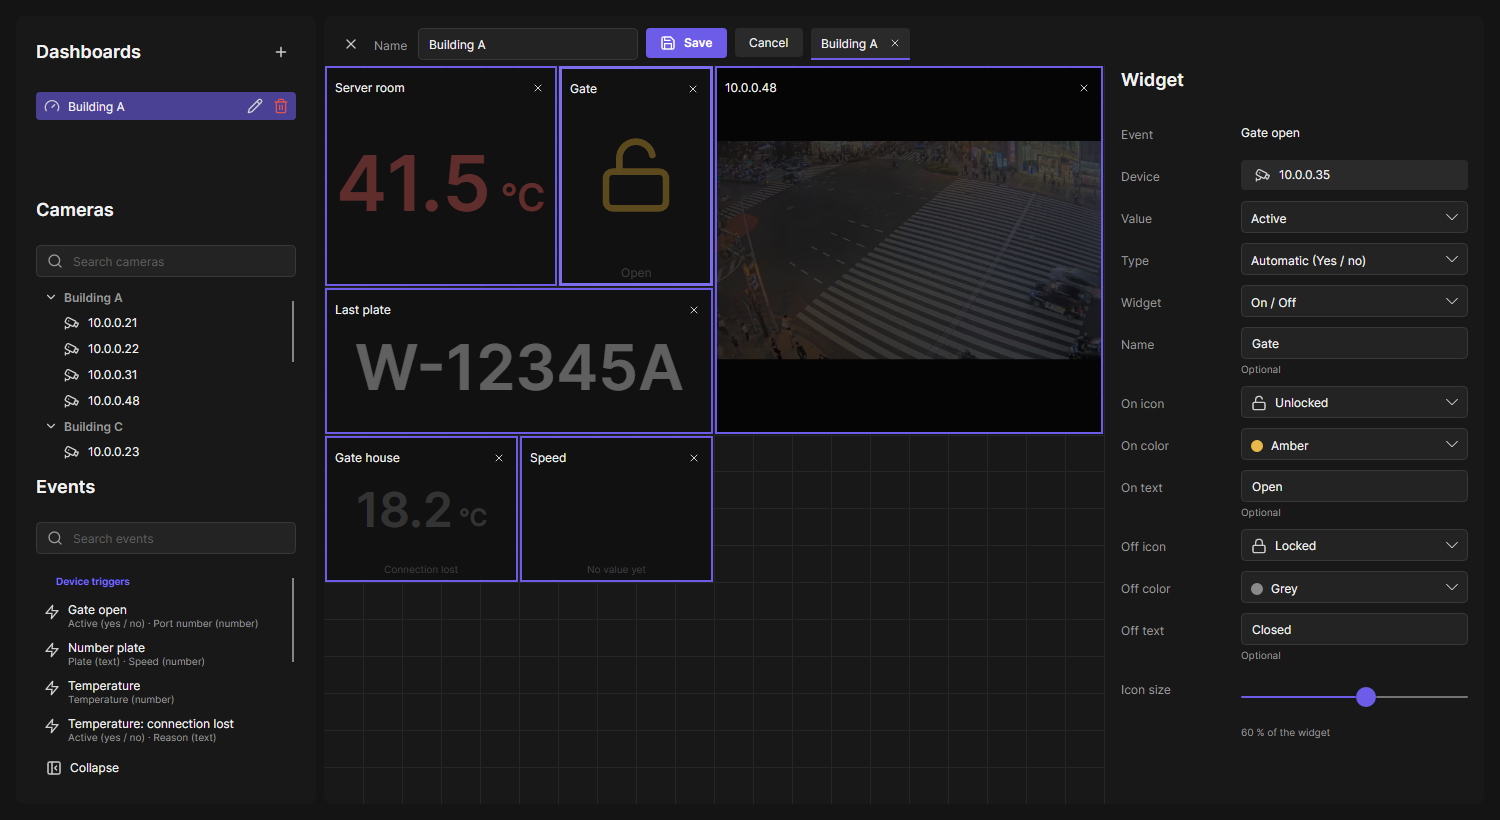
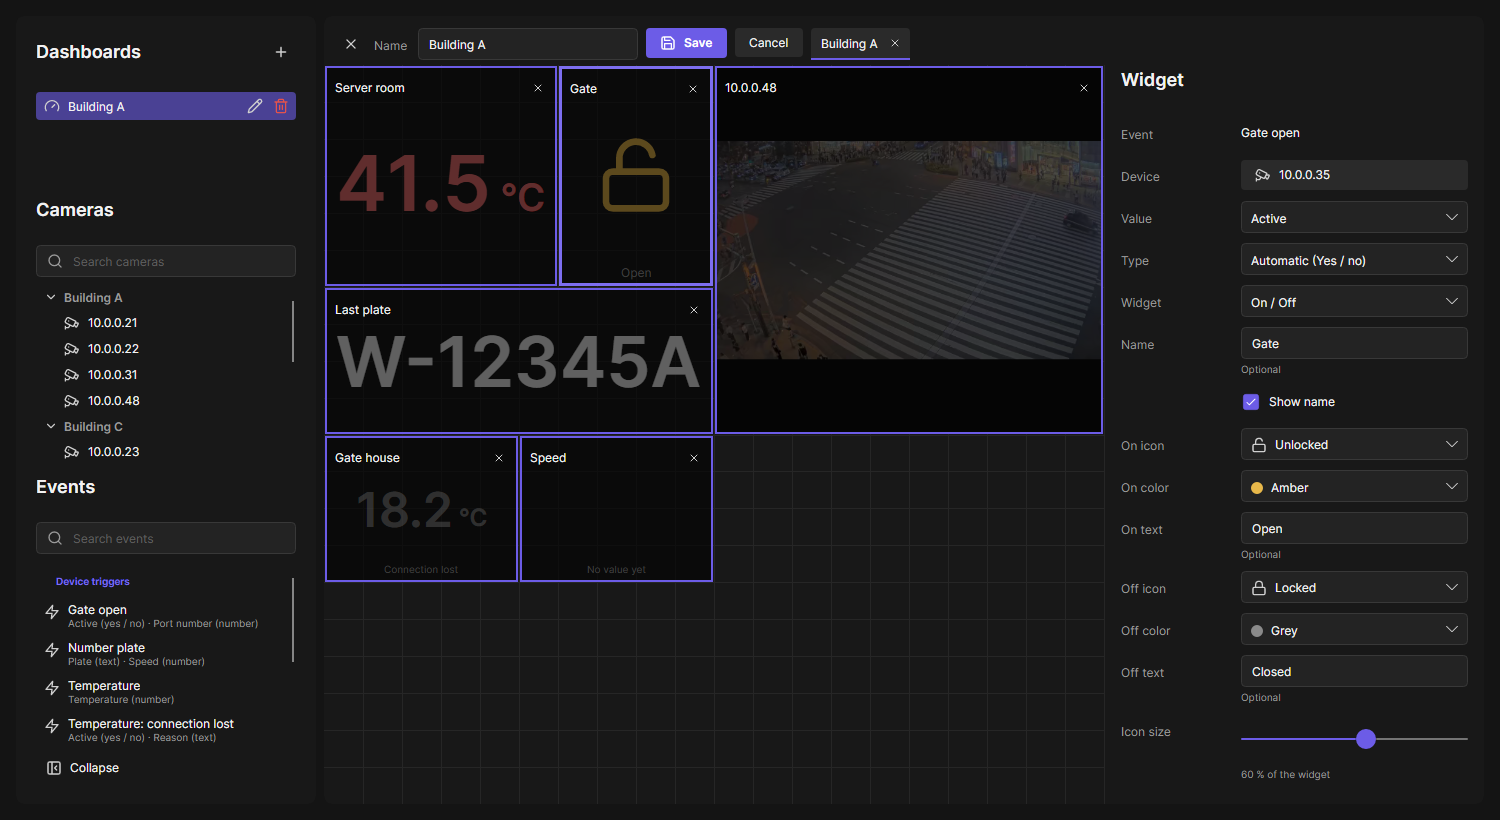
feat(dashboards): Show name per widget, value widgets transparent on the card
A value widget can hide its name so the value takes the whole widget (on by default). Value widgets have no background;
the shared tile grid gives a tile's frame an optional theme class (ITileGridItem.FrameClass), video keeps its dark
background.

diff --git a/tests/Oadm.Plugins.Dashboards.Tests/DashboardsPageTests.cs b/tests/Oadm.Plugins.Dashboards.Tests/DashboardsPageTests.cs
@@ -138,6 +138,9 @@ public sealed class DashboardsPageTests
             await editor.ChooseDeviceCommand.ExecuteAsync(null);
             Assert.Equal(io.Id, widget.Widget.DeviceId);
             Assert.Equal("Temperature · 10.0.0.120", widget.Widget.Name); // the default name follows the device
+            editor.ShowName = false;
+            Assert.False(widget.Widget.ShowName);
+            editor.ShowName = true;
             editor.Unit = "°C";
             editor.AddThresholdCommand.Execute(null);
             editor.Thresholds[0].ValueText = "30";
@@ -319,7 +322,7 @@ public sealed class DashboardsPageTests
                 [
                     new Widget { Id = "t", Kind = WidgetKind.Number, TypeId = Types.Temperature, Field = "temperature", DeviceId = io.Id, Name = "Server room", Unit = "°C", X = 0, Y = 0, Width = 6, Height = 6, Thresholds = [new(30, "Orange"), new(40, "Red")] },
                     new Widget { Id = "g", Kind = WidgetKind.OnOff, TypeId = Types.Gate, Field = DashboardsPluginInfo.ActiveField, DeviceId = gate.Id, Name = "Gate", OnText = "Open", OffText = "Closed", OnIcon = "lockOpen", OnColor = "Amber", OffIcon = "lock", X = 6, Y = 0, Width = 4, Height = 6 },
-                    new Widget { Id = "p", Kind = WidgetKind.Text, TypeId = Types.Plate, Field = "plate", DeviceId = io.Id, Name = "Last plate", X = 0, Y = 6, Width = 10, Height = 4, FontSize = 70 },
+                    new Widget { Id = "p", Kind = WidgetKind.Text, TypeId = Types.Plate, Field = "plate", DeviceId = io.Id, Name = "Last plate", ShowName = false, X = 0, Y = 6, Width = 10, Height = 4, FontSize = 70 },
                     new Widget { Id = "s", Kind = WidgetKind.Number, TypeId = Types.Temperature, Field = "temperature", DeviceId = gate.Id, Name = "Gate house", Unit = "°C", Decimals = 1, X = 0, Y = 10, Width = 5, Height = 4 },
                     new Widget { Id = "n", Kind = WidgetKind.Number, TypeId = Types.Plate, Field = "speed", DeviceId = gate.Id, Name = "Speed", Unit = "km/h", X = 5, Y = 10, Width = 5, Height = 4 },
                     new Widget { Id = "v", Kind = WidgetKind.Video, DeviceId = camera.Id, Name = camera.Address, X = 10, Y = 0, Width = 10, Height = 10 },
@@ -341,6 +344,8 @@ public sealed class DashboardsPageTests
                 Assert.Contains(widgets, w => w.Display.Note == DashboardTexts.ConnectionLost && w.Display.Dimmed);
                 Assert.Contains(widgets, w => w.Display.Caption == "Closed" || w.Display.Caption == "Open");
                 Assert.Contains(widgets, w => w.Display.Color == "Red"); // 41.5 reaches the red threshold
+                // "Show name" off: the plate shows without its name.
+                Assert.DoesNotContain(view.GetVisualDescendants().OfType<TextBlock>(), t => t.Text == "Last plate" && t.IsEffectivelyVisible);
                 Headless.Capture(window, "plugin-dashboards.png");
 
                 // Edit: the cell lines, a frame per widget, the panel of the clicked widget.
@@ -353,6 +358,10 @@ public sealed class DashboardsPageTests
                 Assert.All(view.GetVisualDescendants().OfType<WidgetView>(), w => Assert.DoesNotContain(
                     w.GetVisualDescendants().OfType<TextBlock>(), t => t.IsEffectivelyVisible && t.Opacity > 0 && t.Classes.Contains("small") && t.Text == "Server room"));
                 Headless.Capture(window, "plugin-dashboards-edit.png");
+                page.ActiveTab.Select(page.ActiveTab.Widgets[2]);
+                Headless.Pump();
+                Assert.False(page.ActiveTab.Editor!.ShowName);
+                Headless.Capture(window, "plugin-dashboards-text.png");
                 page.ActiveTab.Select(page.ActiveTab.Widgets[1]);
                 Headless.Pump();
                 // The next widget's panel never takes the choices of the one before.

diff --git a/plugins/Oadm.Plugins.Dashboards.Client/WidgetEditorViewModel.cs b/plugins/Oadm.Plugins.Dashboards.Client/WidgetEditorViewModel.cs
@@ -104,6 +104,7 @@ public sealed partial class WidgetEditorViewModel : ValidatingViewModel
         Target = target;
         var w = target.Widget;
         Name = w.Name;
+        ShowName = w.ShowName;
         IconSize = w.IconSize;
         FontSize = w.FontSize;
         Color = ColorNamed(w.Color);
@@ -180,6 +181,10 @@ public sealed partial class WidgetEditorViewModel : ValidatingViewModel
 
     [ObservableProperty]
     public partial string Name { get; set; } = string.Empty;
+
+    /// <summary>The name at the top of the widget (a value widget; the edit frame names it either way).</summary>
+    [ObservableProperty]
+    public partial bool ShowName { get; set; } = true;
 
     [ObservableProperty]
     [NotifyPropertyChangedFor(nameof(IconSizeValue), nameof(IconSizeText))]
@@ -360,6 +365,8 @@ public sealed partial class WidgetEditorViewModel : ValidatingViewModel
 
     partial void OnNameChanged(string value) => Apply();
 
+    partial void OnShowNameChanged(bool value) => Apply();
+
     partial void OnIconSizeChanged(int value) => Apply();
 
     partial void OnFontSizeChanged(int value) => Apply();
@@ -440,6 +447,7 @@ public sealed partial class WidgetEditorViewModel : ValidatingViewModel
         var widget = Target.Widget with
         {
             Name = Name.Trim(),
+            ShowName = ShowName,
             Field = IsValue ? SelectedField?.Value.Name ?? Target.Widget.Field : null,
             Type = IsValue ? SelectedType?.Value ?? FieldType.Automatic : FieldType.Automatic,
             Kind = IsValue ? SelectedKind?.Value ?? Target.Widget.Kind : WidgetKind.Video,

diff --git a/src/Oadm.Sdk.Client/Controls/TileGrid.cs b/src/Oadm.Sdk.Client/Controls/TileGrid.cs
@@ -32,6 +32,9 @@ public interface ITileGridItem : INotifyPropertyChanged
 
     /// <summary>The tile whose settings the page shows while editing (PropertyChanged <c>IsSelected</c>): its frame is marked.</summary>
     bool IsSelected => false;
+
+    /// <summary>A class the tile's frame gets for the theme (e.g. a tile without the video background); null for none.</summary>
+    string? FrameClass => null;
 }
 
 /// <summary>What a <see cref="TileGrid"/> shows: the tiles, the edit mode and the rules; it moves and resizes tiles.</summary>
@@ -324,6 +327,10 @@ public sealed class TileFrame : Panel
             if (_item is not null)
             {
                 _item.PropertyChanged -= OnItemChanged;
+                if (_item.FrameClass is { Length: > 0 } oldClass)
+                {
+                    Classes.Remove(oldClass);
+                }
             }
 
             if (_source is not null)
@@ -345,6 +352,10 @@ public sealed class TileFrame : Panel
                 }
 
                 _remove.Command = _item.RemoveCommand;
+                if (_item.FrameClass is { Length: > 0 } frameClass)
+                {
+                    Classes.Add(frameClass);
+                }
             }
 
             Update();

diff --git a/tests/Oadm.Plugins.Dashboards.Tests/DashboardsServerTests.cs b/tests/Oadm.Plugins.Dashboards.Tests/DashboardsServerTests.cs
@@ -50,6 +50,9 @@ public sealed class DashboardsServerTests(ITestOutputHelper output)
         Assert.Equal(3, host.Events.Of(DashboardsMethods.DashboardsTopic).Count);
         Assert.Contains("\"kind\":\"Number\"", host.Settings.Values["dashboards"], StringComparison.Ordinal); // readable JSON
 
+        // Dashboards saved before "Show name" existed show their names.
+        Assert.True(System.Text.Json.JsonSerializer.Deserialize<Widget>("""{"id":"a","kind":"Text"}""", DashboardsPluginInfo.Json)!.ShowName);
+
         // A restart reads them back.
         using var again = new PluginHost();
         again.Settings.Values["dashboards"] = host.Settings.Values["dashboards"];

diff --git a/plugins/Oadm.Plugins.Dashboards.Client/WidgetView.cs b/plugins/Oadm.Plugins.Dashboards.Client/WidgetView.cs
@@ -61,7 +61,7 @@ public sealed class WidgetView : Border
         _display = display;
         _name.Text = widget.Name;
         _showName = showName;
-        _name.IsVisible = !string.IsNullOrEmpty(widget.Name);
+        _name.IsVisible = widget.ShowName && !string.IsNullOrEmpty(widget.Name);
         _name.Opacity = showName ? 1 : 0; // while editing the frame names the widget; the row stays, so nothing moves
         var isOnOff = widget.Kind == WidgetKind.OnOff && display.HasValue && display.Icon is not null;
         _onOff.IsVisible = isOnOff;

diff --git a/plugins/Oadm.Plugins.Dashboards.Client/DashboardsModels.cs b/plugins/Oadm.Plugins.Dashboards.Client/DashboardsModels.cs
@@ -143,6 +143,9 @@ public sealed partial class WidgetViewModel : ObservableObject, ITileGridItem, I
 
     ICommand? ITileGridItem.RemoveCommand => RemoveCommand;
 
+    /// <summary>Value widgets are transparent on the card; video keeps the dark video background.</summary>
+    string? ITileGridItem.FrameClass => Widget.IsValue ? "valueTile" : null;
+
     /// <summary>New settings (the panel, a move): the grid and the widget redraw.</summary>
     internal void Update(Widget widget)
     {

diff --git a/plugins/Oadm.Plugins.Dashboards/Shared/DashboardModels.cs b/plugins/Oadm.Plugins.Dashboards/Shared/DashboardModels.cs
@@ -149,6 +149,9 @@ public sealed record Widget
     /// <summary>Shown at the top of the widget.</summary>
     public string Name { get; init; } = string.Empty;
 
+    /// <summary>The name shows at the top of a value widget; off, the value takes the room (the edit frame still names it).</summary>
+    public bool ShowName { get; init; } = true;
+
     public string? TypeId { get; init; }
 
     /// <summary>The device (also of a video widget); null for an event of the server.</summary>

diff --git a/plugins/Oadm.Plugins.Dashboards/README.md b/plugins/Oadm.Plugins.Dashboards/README.md
@@ -15,7 +15,7 @@ grid of widgets, each showing one value of one device. Spec and decisions: `docs
 | Storage | Like Live View: plugin setting `dashboards` (JSON, enums as text), shared by every user, every change pushed (event `dashboards`). A save of an older version is refused ("Another user changed the dashboard X meanwhile. Click Cancel and make your changes again."); an unreadable stored list is kept as `dashboardsUnreadable`. |
 | Grid | The shared `ui:TileGrid` with `DashboardsPluginInfo.Layout` (20 x 20 cells, at least 2 x 2, never overlapping); a dropped value takes up to 4 x 4, a camera up to 8 x 8 (`VideoLayout`). |
 | Limits | 50 widgets per dashboard, of them 16 live videos; 200 dashboards; names 1..64 (widget names may be empty); unit 10 characters; 10 thresholds; sizes 10..100 % of the widget; colors and icons only from `WidgetColors` / `WidgetIcons` (theme brushes by name: dark and light both work). The server checks all of it again (`DashboardRules`). |
-| Widgets | **On / Off** (icon, color and optional text per state, icon size), **Text** (font size, color; shrinks to fit, then "…"), **Number** (decimal places or as received, unit, font size, color, thresholds: the color of the highest threshold the number reaches; a value that is no number shows "Not a number" dimmed), **Live video** (the host's live video component like a Live View tile: controls closed, fullscreen with a double-click, the channel buttons; the channel chosen while editing is saved). `WidgetDisplay` (no UI) decides what a widget shows; `WidgetView` draws it (`FitText`, `FitBox`). |
+| Widgets | **On / Off** (icon, color and optional text per state, icon size), **Text** (font size, color; shrinks to fit, then "…"), **Number** (decimal places or as received, unit, font size, color, thresholds: the color of the highest threshold the number reaches; a value that is no number shows "Not a number" dimmed), **Live video** (the host's live video component like a Live View tile: controls closed, fullscreen with a double-click, the channel buttons; the channel chosen while editing is saved). Value widgets are transparent on the card (frame class `valueTile`); video keeps the video background. Every value widget has **Show name** (on by default; off, the value takes the room, the edit frame still names it). `WidgetDisplay` (no UI) decides what a widget shows; `WidgetView` draws it (`FitText`, `FitBox`). |
 | Roles | "show" (automatic, Operator and Viewer), **Change dashboards** (`manage`: save, delete; Operator yes, Viewer no; both audited). Video needs "Live view"; without it the widget says "Your role does not allow live view.". |
 | Page | Left card (Collapse / Expand like Live View): **Dashboards** (+ New dashboard; Edit and Delete in each row), **Cameras** (`ui:DeviceTree`, devices with video), **Events** (the available events grouped, device triggers first, each with its fields and their kind; search). Right card: Close all tabs, while editing Name / Save / Cancel, the tabs (`ui:PageTab`); the grid; while editing the panel of the selected widget right of the grid (a new `WidgetEditorView` per widget). Empty states: Device triggers off ("Turn on Device triggers on the Plugins page", `ICorePluginClientContext.IsPluginOn`), no trigger yet ("Create a device trigger first." + **Open Device triggers**), no dashboard yet. |
 | Editing | New dashboard opens a tab in edit mode ("Dashboard N"). An event dropped or clicked becomes a widget of its first field with the widget that fits (Number for a number, On / Off for yes / no, else Text) and opens its panel: Device (the shared picker for one device, every managed device; not for a server event), Value, Type (Automatic (X), Yes / no, Number, Text), Widget (only those that fit the type), Name (default "<value> · <device address>", follows the value and device until the user changes it), then the widget's settings. Every change shows in the grid at once. A camera dropped or clicked becomes a live video widget. Save checks the rules and that every widget of a device event has a device. |

diff --git a/CLAUDE.md b/CLAUDE.md
@@ -2341,8 +2341,8 @@ HARD RULE for every UI text and every doc. We write for installers who know Axis
   page with tabs: title, close button, the active one underlined; theme `Border.browserTab`), `TileGrid` + `TileFrame` (every
   grid of tiles that fills its page: cells of `Oadm.Sdk.Layout.TileLayout` (size, smallest tile, drop size, most tiles;
   the same rules on the server), a frame per `ITileGridItem` of an `ITileGridSource`, while editing the cell lines and a
-  frame per tile to move, resize and remove it, the selected tile (`ITileGridItem.IsSelected`) marked, `ShowPreview` where a
-  dragged item lands; theme `Panel.tile`, `Border.tileEdit`, `Border.tileHover`, `Panel.tile.selected`, `Border.dropPreview`;
+  frame per tile to move, resize and remove it, the selected tile (`ITileGridItem.IsSelected`) marked, `FrameClass` a theme class of the frame (`valueTile`: no video background), `ShowPreview` where a
+  dragged item lands; theme `Panel.tile`, `Border.tileEdit`, `Border.tileHover`, `Panel.tile.selected`, `Panel.tile.valueTile`, `Border.dropPreview`;
   Live View, Dashboards), `InfoIcon` (every "what does this mean" explanation: an info icon whose text shows on hover and click; `FormField.Info`
   puts one right of the input instead of a long hint), `WizardSteps` + `WizardStepItem` (the step
   row of every wizard: numbered dot and name, thin line between, current accent, done with a check, a step opens when

diff --git a/plugins/README.md b/plugins/README.md
@@ -591,7 +591,8 @@ request with `VapixRequestOptions.StreamResponse` and pass the response as owner
 `ui:PageTab` (title, close, active) are the device tree and the tabs of Web View and Live View; a page with devices by
 tag or with tabs uses them. `ui:TileGrid` is the grid of tiles of Live View: the page's tab implements `ITileGridSource`
 (its tiles as `ITileGridItem`: `Rect` (a `TileRect` of cells), title, content or a message, the remove command, `IsSelected`
-(the tile whose settings the page shows, its frame marked);
+(the tile whose settings the page shows, its frame marked), `FrameClass` (a theme class of its frame, e.g. `valueTile`: no video
+background);
 `IsEditing`; `TryMove(item, rect)`), the grid draws a `TileFrame` per tile, and the rules are an `Oadm.Sdk.Layout.TileLayout`
 (size, smallest tile, drop size, most tiles: `Place`, `Fit`, `Drag(rect, TileEdges, dx, dy)`, `Fits`, `FirstOverlap`) that
 the server part checks again before it stores. `DeviceTexts.Removed(id)` names a device OADM no longer manages, `ServerErrors.Message(ex)`
